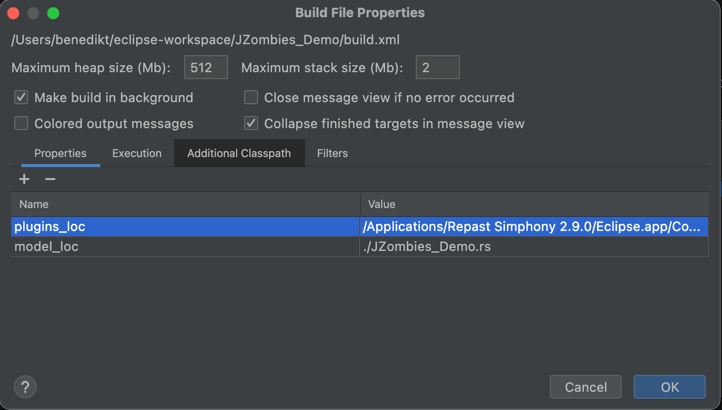
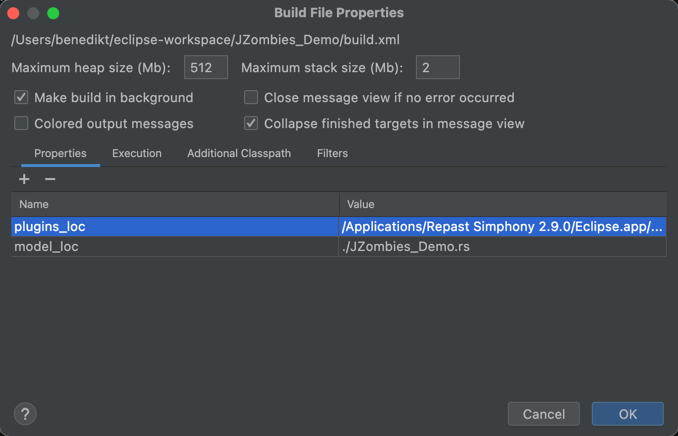
Correct Properties

Changed region(s): [[0.0, 0.0, 1.0, 1.0], [0.031, 0.9366, 0.0619, 0.9659], [0.0, 0.0293, 0.031, 0.0585]]

diff --git a/README.md b/README.md
@@ -75,7 +75,8 @@ Go to `http://localhost:5000`
   ![import](docs/import.png)
 - Select the `build.xml` file in the project root and set it as `Ant Build File` from the context menu
 - Open the `Ant View` and edit the properties of the `build` Ant Target
-- Add the `ECLIPSE_HOME` property with the path to the `plugins` folder as value
+- Add the `plugins_loc` property with the path to the `plugins` folder as value
+- Add the `model_loc` property with the value `./JZombies_Demo.rs`
   ![ant-properties](docs/ant-properties.png)
 - 🔨 Build the Model by executing the `build` Ant Target
 - 🚀 Run the Model by executing one of the `run-*` Ant Targets
